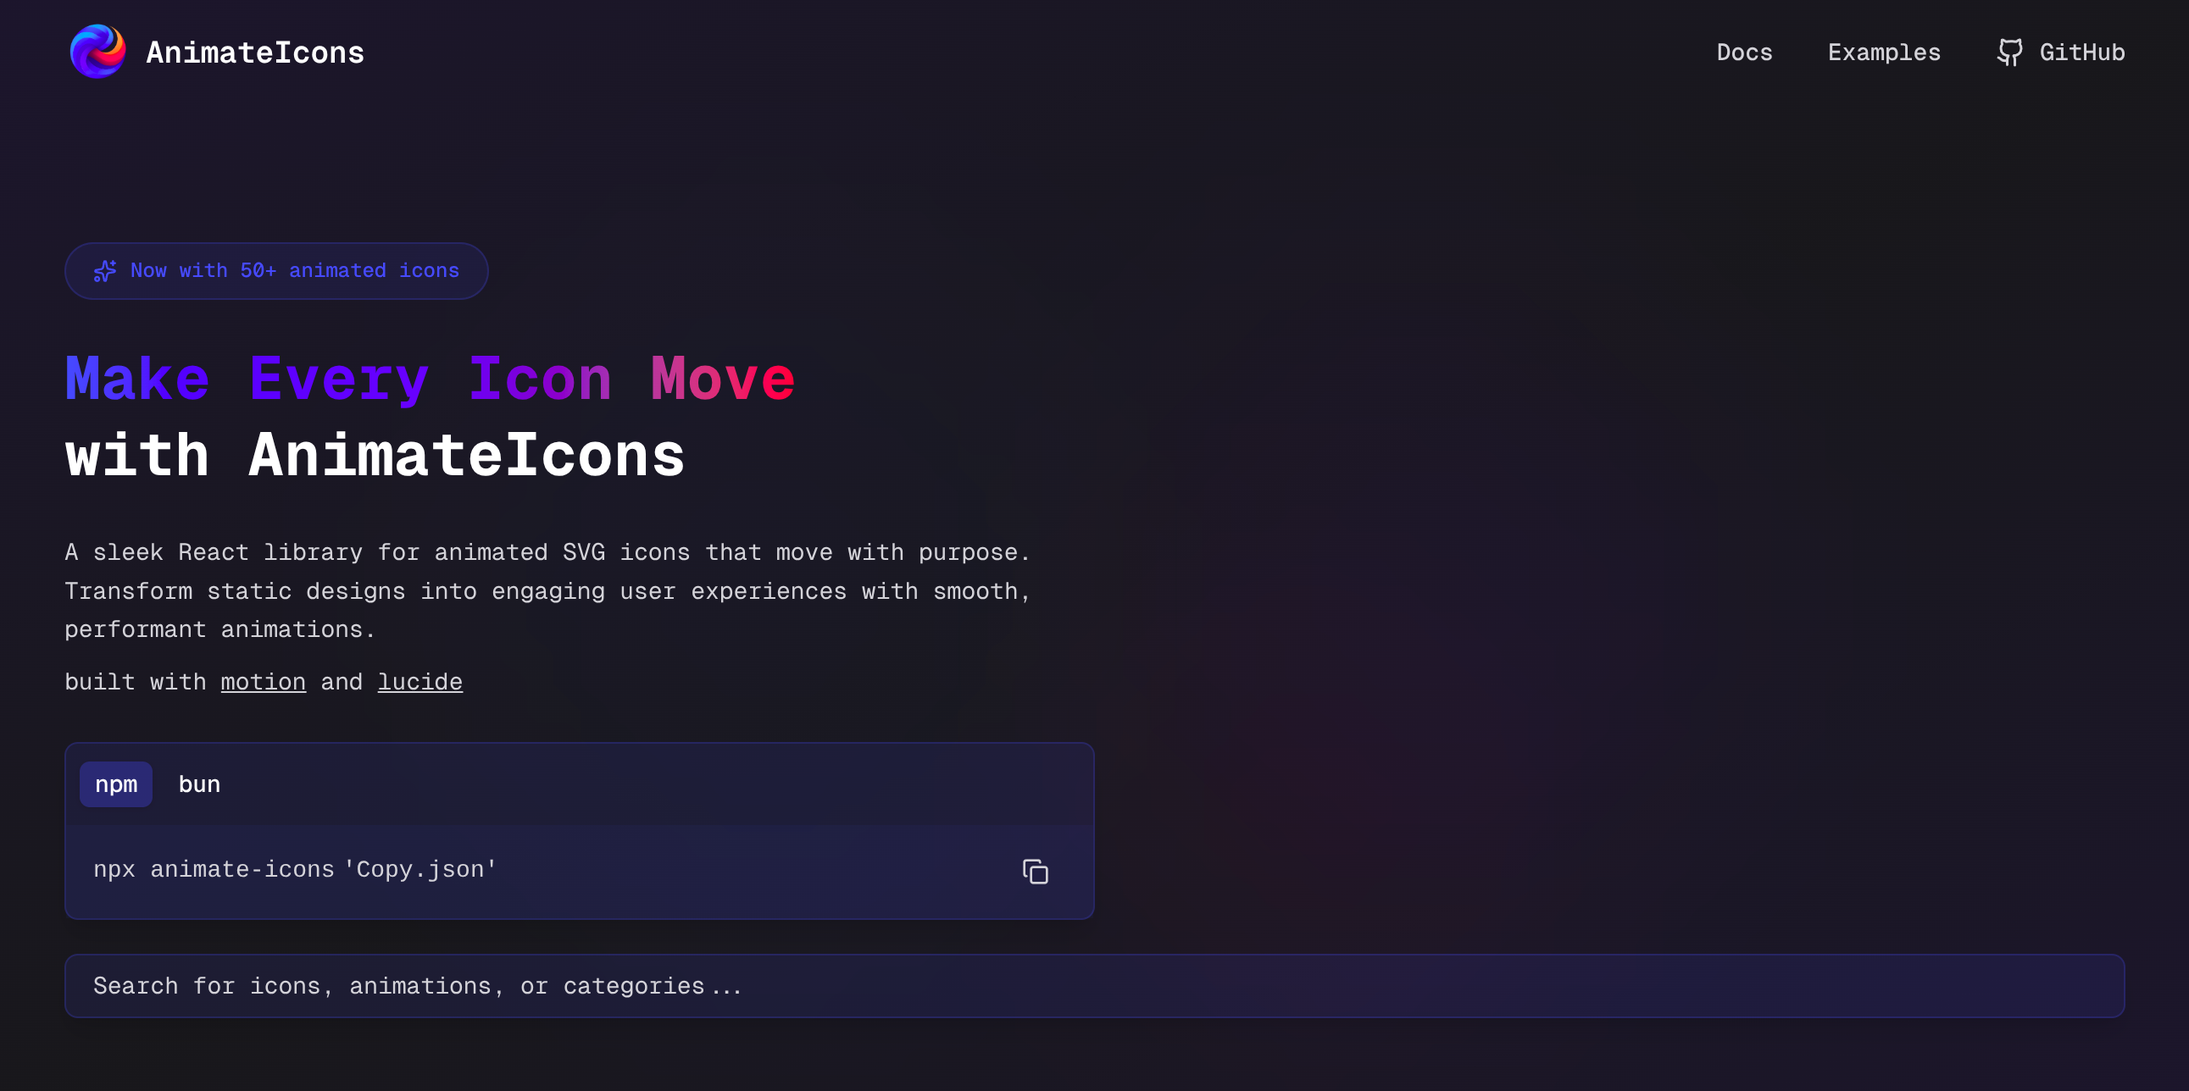
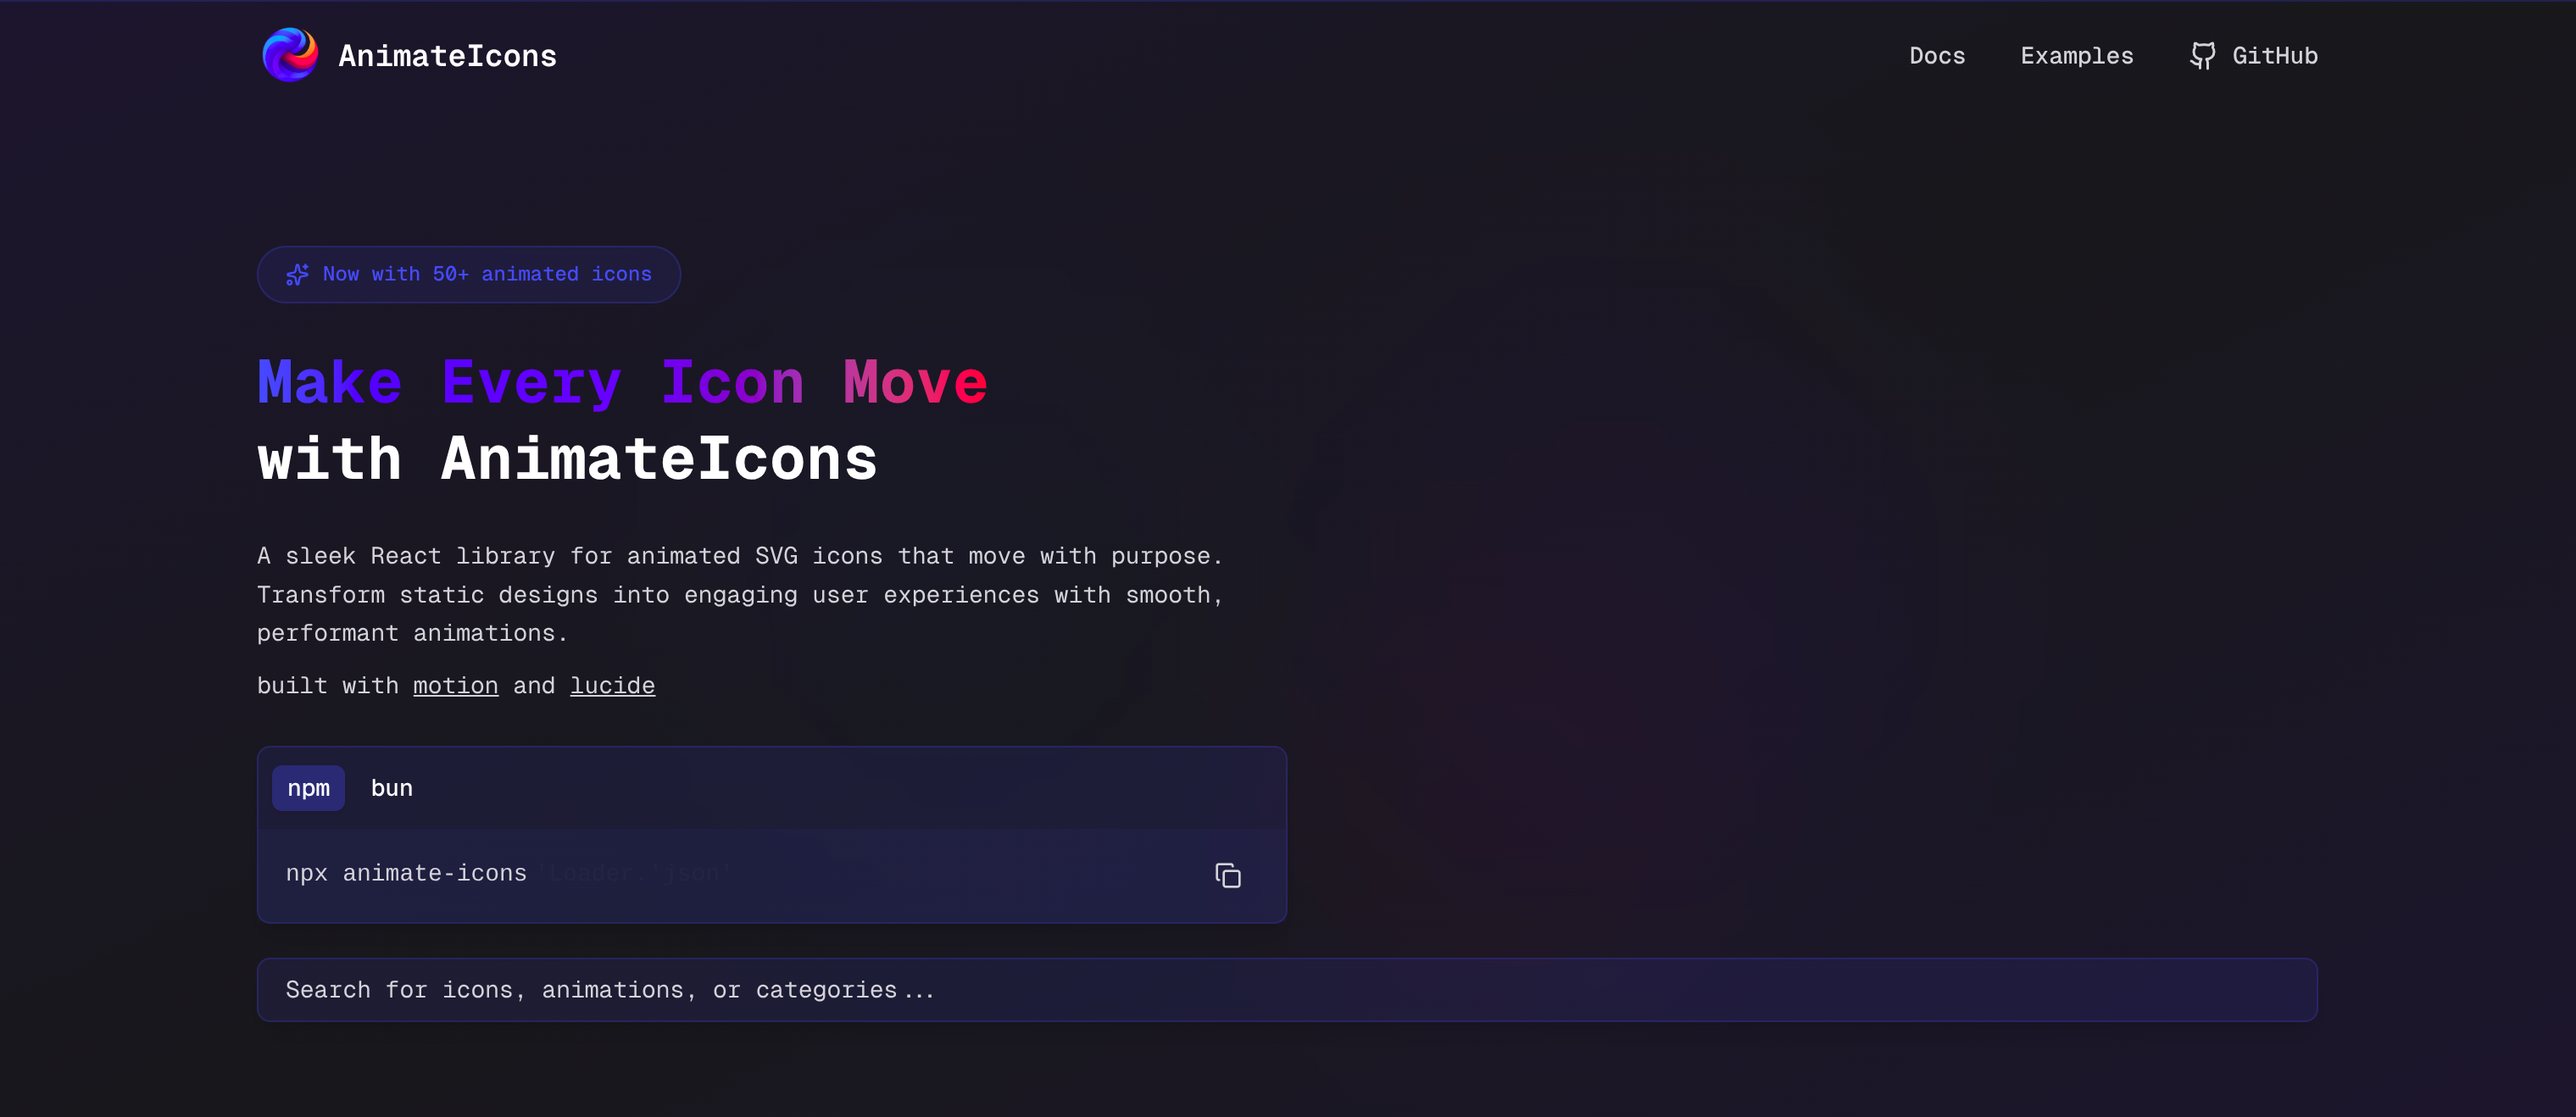
Add SparklesIcon component with animated SVG paths

diff --git a/src/components/icons/Github.tsx b/src/components/icons/Github.tsx
@@ -4,7 +4,7 @@ import { cn } from "@/lib/utils";
 import type { Variants } from "motion/react";
 import { motion, useAnimation } from "motion/react";
 import type { HTMLAttributes } from "react";
-import { forwardRef, useCallback, useImperativeHandle, useRef } from "react";
+import { forwardRef, useEffect, useImperativeHandle, useRef } from "react";
 
 export interface GithubIconHandle {
 	startAnimation: () => void;
@@ -66,46 +66,42 @@ const GithubIcon = forwardRef<GithubIconHandle, GithubIconProps>(
 		const tailControls = useAnimation();
 		const isControlledRef = useRef(false);
 
+		// Tail (hand) animation: always waving
+		useEffect(() => {
+			tailControls.start("wag");
+		}, [tailControls]);
+
 		useImperativeHandle(ref, () => {
 			isControlledRef.current = true;
-
 			return {
 				startAnimation: async () => {
 					bodyControls.start("animate");
-					await tailControls.start("draw");
-					tailControls.start("wag");
+					// The tail is always waving, no need to start manually.
 				},
 				stopAnimation: () => {
 					bodyControls.start("normal");
-					tailControls.start("normal");
+					// The tail keeps waving.
 				},
 			};
 		});
 
-		const handleMouseEnter = useCallback(
-			async (e: React.MouseEvent<HTMLDivElement>) => {
-				if (!isControlledRef.current) {
-					bodyControls.start("animate");
-					await tailControls.start("draw");
-					tailControls.start("wag");
-				} else {
-					onMouseEnter?.(e);
-				}
-			},
-			[bodyControls, onMouseEnter, tailControls],
-		);
+		const handleMouseEnter = (e: React.MouseEvent<HTMLDivElement>) => {
+			if (!isControlledRef.current) {
+				bodyControls.start("animate");
+				// The tail is always waving.
+			} else {
+				onMouseEnter?.(e);
+			}
+		};
 
-		const handleMouseLeave = useCallback(
-			(e: React.MouseEvent<HTMLDivElement>) => {
-				if (!isControlledRef.current) {
-					bodyControls.start("normal");
-					tailControls.start("normal");
-				} else {
-					onMouseLeave?.(e);
-				}
-			},
-			[bodyControls, tailControls, onMouseLeave],
-		);
+		const handleMouseLeave = (e: React.MouseEvent<HTMLDivElement>) => {
+			if (!isControlledRef.current) {
+				bodyControls.start("normal");
+				// The tail keeps waving.
+			} else {
+				onMouseLeave?.(e);
+			}
+		};
 
 		return (
 			<div

diff --git a/src/components/icons/SparklesIcon.tsx b/src/components/icons/SparklesIcon.tsx
@@ -1,0 +1,70 @@
+"use client";
+
+import { motion, useAnimation } from "motion/react";
+import { useEffect, useRef } from "react";
+
+export function SparklesIcon({ size = 24, className = "", ...props }) {
+	const controls = useAnimation();
+	const mounted = useRef(false);
+
+	useEffect(() => {
+		controls.start({
+			rotate: [0, 12, -12, 0],
+			scale: [1, 1.18, 0.95, 1],
+			transition: {
+				repeat: Infinity,
+				duration: 1.5,
+				ease: "easeInOut",
+			},
+		});
+		mounted.current = true;
+		return () => {
+			mounted.current = false;
+		};
+	}, [controls]);
+
+	return (
+		<div className={className} {...props}>
+			<svg
+				xmlns="http://www.w3.org/2000/svg"
+				width={size}
+				height={size}
+				viewBox="0 0 24 24"
+				fill="none"
+				stroke="currentColor"
+				strokeWidth="2"
+				strokeLinecap="round"
+				strokeLinejoin="round"
+				style={{ display: "block" }}
+			>
+				<motion.path
+					d="M11.017 2.814a1 1 0 0 1 1.966 0l1.051 5.558a2 2 0 0 0 1.594 1.594l5.558 1.051a1 1 0 0 1 0 1.966l-5.558 1.051a2 2 0 0 0-1.594 1.594l-1.051 5.558a1 1 0 0 1-1.966 0l-1.051-5.558a2 2 0 0 0-1.594-1.594l-5.558-1.051a1 1 0 0 1 0-1.966l5.558-1.051a2 2 0 0 0 1.594-1.594z"
+					animate={controls}
+					initial={{ opacity: 0, scale: 0.5 }}
+					whileInView={{ opacity: 1, scale: 1 }}
+					transition={{ duration: 0.5, type: "spring" }}
+				/>
+				<motion.path
+					d="M20 2v4"
+					initial={{ opacity: 0, y: -6 }}
+					animate={{ opacity: 1, y: 0 }}
+					transition={{ delay: 0.4, duration: 0.6, type: "spring" }}
+				/>
+				<motion.path
+					d="M22 4h-4"
+					initial={{ opacity: 0, x: 6 }}
+					animate={{ opacity: 1, x: 0 }}
+					transition={{ delay: 0.5, duration: 0.6, type: "spring" }}
+				/>
+				<motion.circle
+					cx="4"
+					cy="20"
+					r="2"
+					initial={{ scale: 0, opacity: 0 }}
+					animate={{ scale: 1, opacity: 1 }}
+					transition={{ delay: 0.6, duration: 0.5, type: "spring" }}
+				/>
+			</svg>
+		</div>
+	);
+}

diff --git a/src/components/icons/Copy.tsx b/src/components/icons/Copy.tsx
@@ -22,6 +22,16 @@ const defaultTransition: Transition = {
 	mass: 1,
 };
 
+const boxVariants = {
+	normal: { translateY: 0, translateX: 0, rotate: 0 },
+	animate: { translateY: -3, translateX: -3, rotate: 360 },
+};
+
+const pathVariants = {
+	normal: { x: 0, y: 0 },
+	animate: { x: 3, y: 3 },
+};
+
 const CopyIcon = forwardRef<CopyIconHandle, CopyIconProps>(
 	({ onMouseEnter, onMouseLeave, className, size = 28, ...props }, ref) => {
 		const controls = useAnimation();
@@ -57,6 +67,7 @@ const CopyIcon = forwardRef<CopyIconHandle, CopyIconProps>(
 			},
 			[controls, onMouseLeave],
 		);
+
 		return (
 			<div
 				className={cn(className)}
@@ -82,21 +93,18 @@ const CopyIcon = forwardRef<CopyIconHandle, CopyIconProps>(
 						y="8"
 						rx="2"
 						ry="2"
-						variants={{
-							normal: { translateY: 0, translateX: 0 },
-							animate: { translateY: -3, translateX: -3 },
-						}}
+						variants={boxVariants}
 						animate={controls}
-						transition={defaultTransition}
+						transition={{
+							...defaultTransition,
+							duration: 0.7,
+						}}
 					/>
 					<motion.path
 						d="M4 16c-1.1 0-2-.9-2-2V4c0-1.1.9-2 2-2h10c1.1 0 2 .9 2 2"
-						variants={{
-							normal: { x: 0, y: 0 },
-							animate: { x: 3, y: 3 },
-						}}
-						transition={defaultTransition}
+						variants={pathVariants}
 						animate={controls}
+						transition={defaultTransition}
 					/>
 				</svg>
 			</div>

diff --git a/src/components/Hero.tsx b/src/components/Hero.tsx
@@ -1,9 +1,9 @@
 "use client";
 
-import { Sparkles } from "lucide-react";
 import Link from "next/link";
 import React, { useEffect, useState } from "react";
 import CmdSection from "./CmdSection";
+import { SparklesIcon } from "./icons/SparklesIcon";
 
 const HeroSection: React.FC = () => {
 	const [isVisible, setIsVisible] = useState<boolean>(false);
@@ -27,7 +27,7 @@ const HeroSection: React.FC = () => {
 			></div>
 
 			<div className="relative z-10 mx-auto max-w-7xl px-6 lg:px-8">
-				<div className="mt-10 flex flex-col items-center justify-between md:mt-20 lg:flex-row">
+				<div className="mt-10 flex flex-col md:mt-20 lg:flex-row lg:items-center lg:justify-between">
 					{/* Left Content */}
 					<div
 						className={`transform space-y-8 transition-all duration-1000 lg:w-1/2 ${
@@ -44,7 +44,7 @@ const HeroSection: React.FC = () => {
 										: "translate-y-10 opacity-0"
 								}`}
 							>
-								<Sparkles size={14} className="text-primary" />
+								<SparklesIcon size={14} className="text-primary" />
 								<span className="text-primary text-xs font-medium">
 									Now with 50+ animated icons
 								</span>

diff --git a/src/components/Navbar.tsx b/src/components/Navbar.tsx
@@ -13,7 +13,7 @@ const Navbar: React.FC = () => {
 
 	return (
 		<nav className="relative z-50 transition-all duration-300">
-			<div className="border-primary/20 border-b py-2 text-center text-xs text-zinc-400">
+			<div className="border-primary/20 border-b py-2 px-4 text-center text-xs text-zinc-400">
 				<p>
 					This is under development, so some features may not work as expected.
 				</p>
